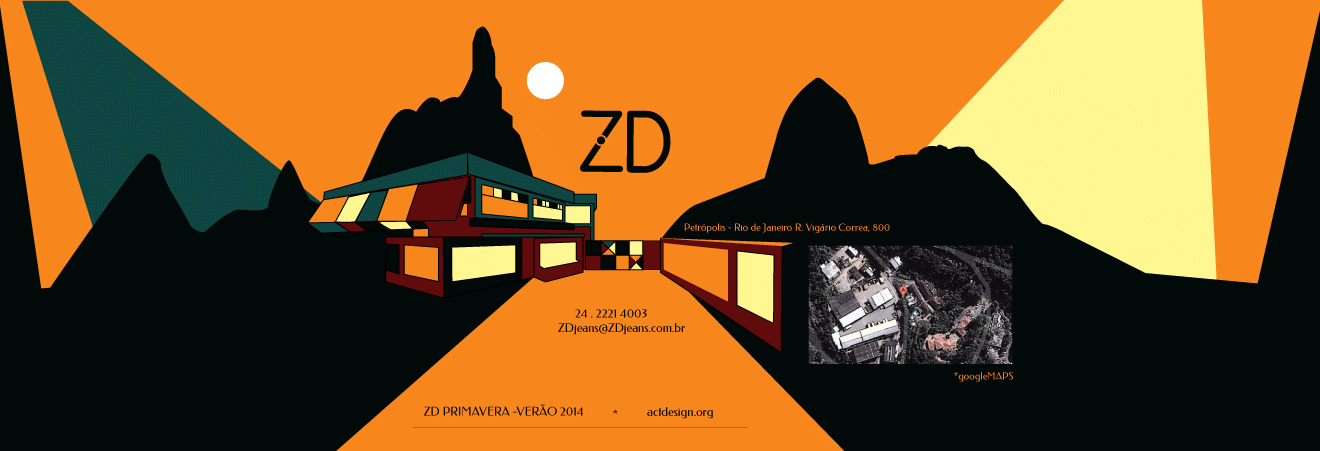
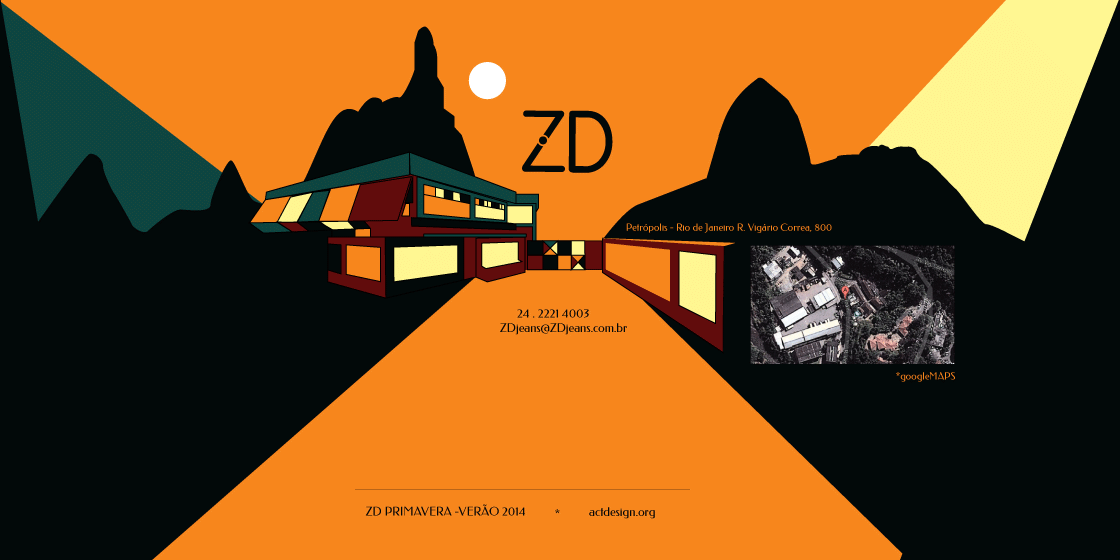
mudancas em rodape

diff --git a/admin/wp-content/themes/zd/css/styles.css b/admin/wp-content/themes/zd/css/styles.css
@@ -18,10 +18,10 @@
 	/*position: relative;*/
 	background-image: url("../img/zdRODAPE.png");
 	background-size: cover;
-	height: 450.72px;
-	width: 1320px;
+	height: 560px;
+	width: 1120px;
 	left:50%;
-	margin-left: -160px;
+	margin-left: -80px;
 
 	margin-top: 460px;
 }
